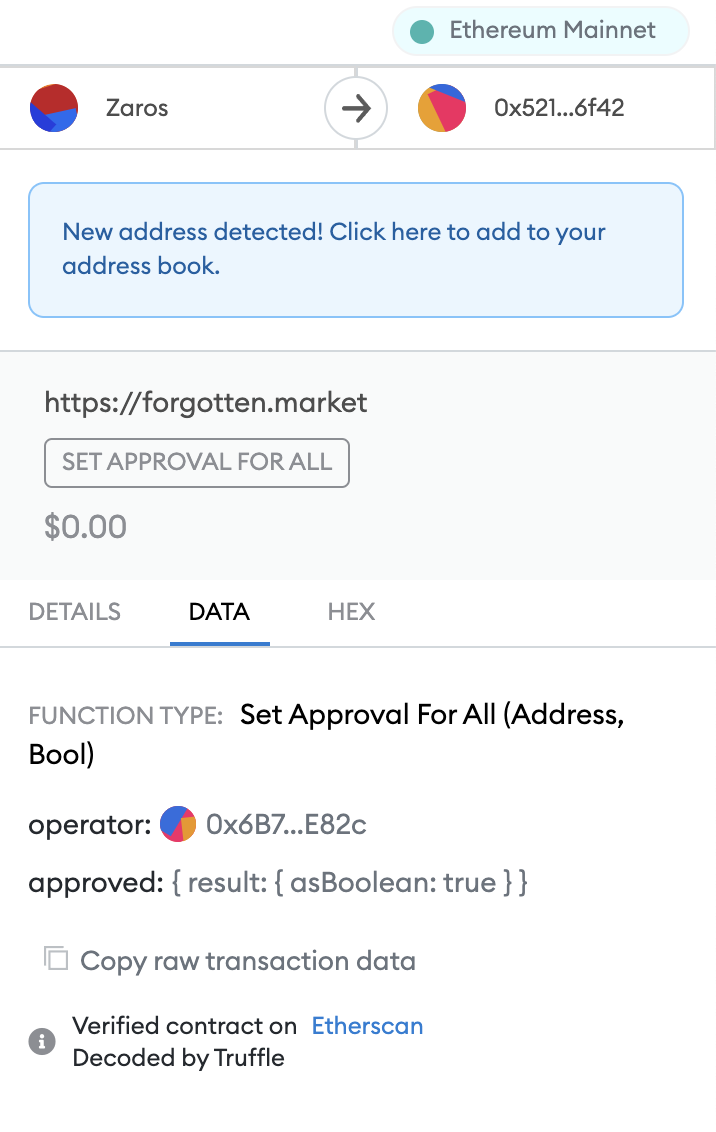
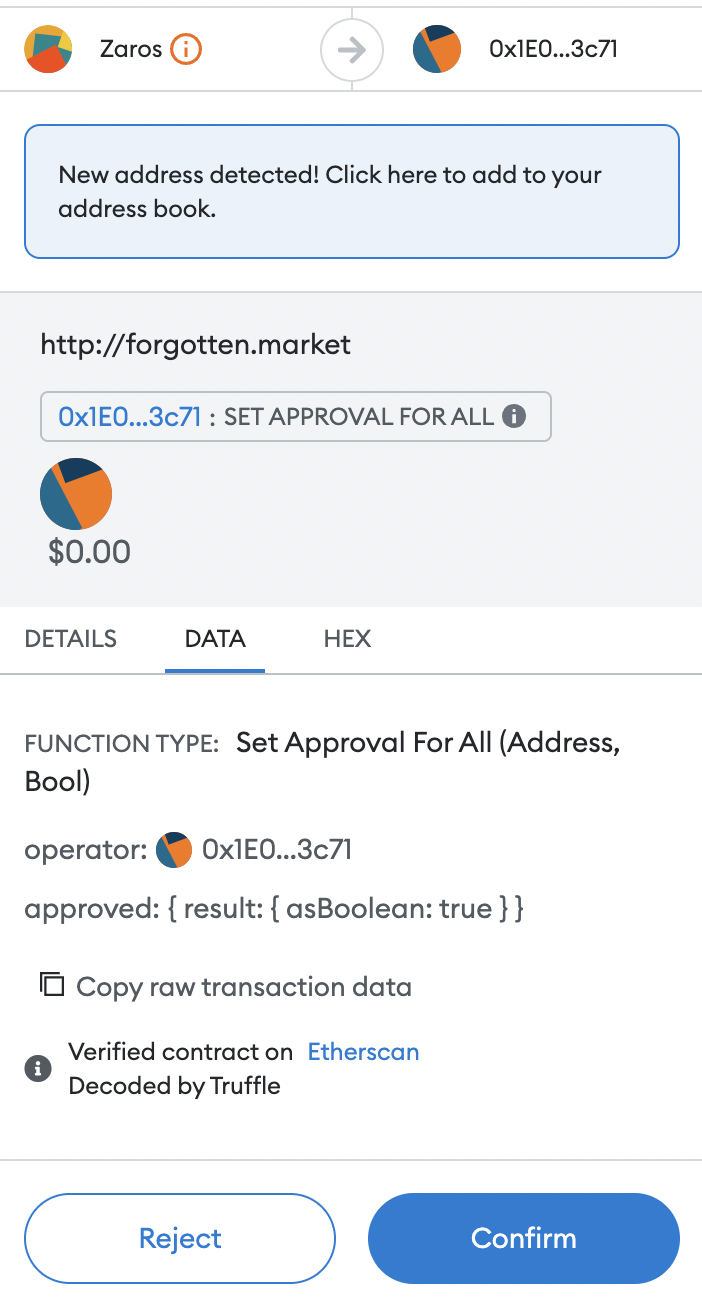
move to seaport

Changed region(s): [[0.0, 0.0, 1.0, 0.8657], [0.0299, 0.8966, 0.9872, 0.9894], [0.9274, 0.1546, 0.9573, 0.2783]]

diff --git a/pages/faq.tsx b/pages/faq.tsx
@@ -103,9 +103,9 @@ export default function FAQ({
         </Description>
         <HorizontalLine/>
         <HorizontalLine/>
-        <Title>Is it safe to sign messages from Wyvern Exchange Contract?</Title>
+        <Title>Is it safe to sign messages from Seaport?</Title>
         <Description style={{display: 'block'}}>
-          Forgotten.market utilizes the <a href="https://wyvernprotocol.com/" target="_blank">Wyvern Protocol</a>.
+          Forgotten.market utilizes the <a href="https://docs.opensea.io/v2.0/reference/seaport-overview" target="_blank">Seaport Protocol</a>.
           When you list a token for sale or make an offer on a token, you will need to sign a message like the one below:
         </Description>
         <Description style={{justifyContent: 'center'}}>
@@ -113,32 +113,12 @@ export default function FAQ({
         </Description>
         <HorizontalLine/>
         <Description style={{display: 'block'}}>
-          In this example, a wizard is being listed for Ξ10. The 'basePrice' value (towards the bottom) is displayed in wei, which is the ether
-          value * 10^18. The exchange contract is the&nbsp; 
-          <a href="https://etherscan.io/address/0x7f268357a8c2552623316e2562d90e642bb538e5" target="_blank">Wyvern Exchange Contract</a>.
-          The 'maker' address will be your own, while the 'taker' address will be the null address, indicating a public listing. <br/>It is best practice
-           to double check messages before you sign them to confirm their intent.
+          Signing a message in this format is required to make a listing on Forgotten Market - if you've previously listed on OpenSea, you'll recognize this because OpenSea also uses the Seaport protocol. The only differences between an OpenSea listing and a Forgotten Market listing are the fees (Forgotten Market fees are lower and go to the Community DAO), and the orderbook the listing is posted to (Forgotten Market listings are posted to the Reservoir orderbook, rather than OpenSea's).
         </Description>
-        <HorizontalLine/>
-        <Title>What is proxy registration?</Title>
-        <Description style={{display: 'block'}}>
-          Wyvern Protocol creates a personal proxy contract for each address to enable trading. If you've listed on OpenSea before, 
-          your wallet already has a proxy contract created. However, if this is your first time listing 
-          tokens for a particular wallet, you will be prompted to register a proxy contract before listing a token. 
-          In Metamask, the prompt will look like this:
-        </Description>
-        <Description style={{justifyContent: 'center'}}>
-          <ImageWithBorder src="/static/img/marketplace/faq/proxy.png" style={{width: '400px', maxWidth: '75vw', maxHeight: '130vw'}}/>
-        </Description>
-        <HorizontalLine/>
-        <Description style={{display: 'block'}}>
-          Note the address in the top right is the <a href="https://etherscan.io/address/0xa5409ec958C83C3f309868babACA7c86DCB077c1" target="_blank">Project Wyvern Proxy Registry</a>.
-        </Description>
-        <HorizontalLine/>
         <HorizontalLine/>
         <Title>What does it mean to set approval?</Title>
-        <Description>
-          In order to list tokens on Forgotten.market, you will need to approve your proxy contract to transfer them. 
+        <Description style={{display: 'block'}}>
+          In order to list tokens on Forgotten.market, you will need to approve the <a href="https://etherscan.io/address/0x1E0049783F008A0085193E00003D00cd54003c71" target="_blank">OpenSea Conduit contract</a> to transfer them. 
           This approval allows tokens to be transferred if a valid listing is filled, and can be revoked at any time.
           Approvals must be done per-contract, so separate approvals are required for Wizards, Souls, and Ponies.
           If you've already listed these tokens on OpenSea you will not need to set any additional approvals on Forgotten.market.
@@ -148,12 +128,6 @@ export default function FAQ({
           <ImageWithBorder src="/static/img/marketplace/faq/approval.png" style={{width: '400px', maxWidth: '75vw', maxHeight: '120vw'}}/>
         </Description>
         <HorizontalLine/>
-        <Description style={{display: 'block'}}>
-          Note the address in the top right is the contract of the token you're approving (in this case,&nbsp; 
-          <a href="https://etherscan.io/address/0x521f9c7505005cfa19a8e5786a9c3c9c9f5e6f42" target="_blank">wizards</a>).
-          The operator address, passed as a parameter in the contract call, will be the address of the proxy contract 
-          you've registered for your wallet.
-        </Description>
         <HorizontalLine/>
         <HorizontalLine/> 
         <Title>Additional questions?</Title>

diff --git a/components/Marketplace/Order.tsx b/components/Marketplace/Order.tsx
@@ -420,7 +420,8 @@ function OrderContent({
       automatedRoyalties: false,
       fee: CONTRACTS[contract].fee,
       feeRecipient: CONTRACTS[contract].feeRecipient,
-      source: 'Forgotten Market'
+      source: 'Forgotten Market',
+      orderKind: 'seaport',
     }
 
     if (collectionWide) {
@@ -440,6 +441,7 @@ function OrderContent({
         weiPrice: ethers.utils.parseEther(price).toString(),
         expirationTime: (Date.parse(expiration.toString()) / 1000).toString(),
         orderbook: 'opensea',
+        orderKind: 'seaport',
       }
       
       setParams(os_url, os_query);

diff --git a/lib/params.ts b/lib/params.ts
@@ -5,7 +5,7 @@
  */
  export default function setParams(
   url: URL,
-  query: { [x: string]: number | string | boolean }
+  query: { [x: string]: number | string | boolean | string[] }
 ) {
   Object.keys(query).map((key) =>
     url.searchParams.set(key, query[key].toString())

diff --git a/pages/address/[address].tsx b/pages/address/[address].tsx
@@ -233,7 +233,7 @@ export default function Address({
   useEffect(() => {
     fetchOrders('sell');
     fetchOrders('buy')
-    fetchOffers();
+    //fetchOffers();
   }, []);
 
   if (valid) {
